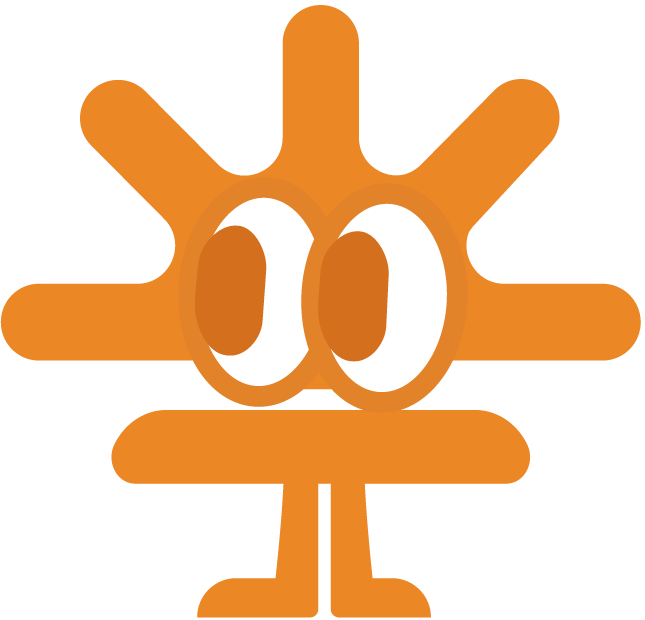
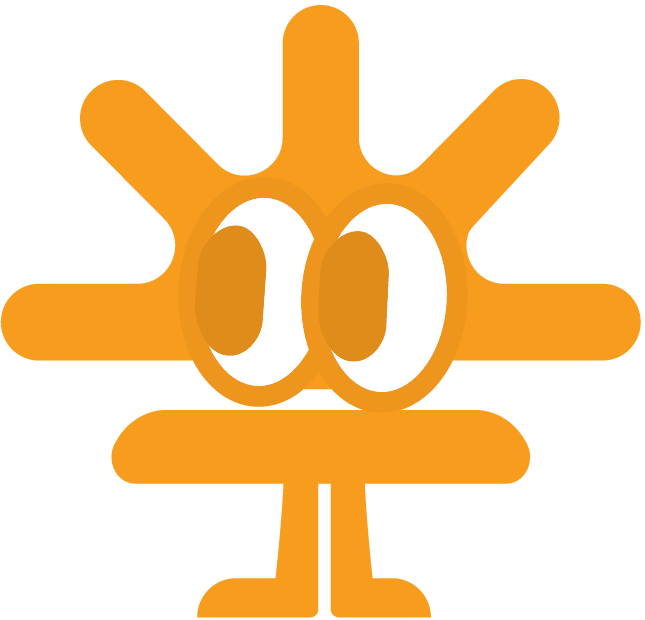
style: 煥新吉祥物溫暖活力偏黃橘色，回歸 Noto Sans TC 多層次字重階層與閱讀順序美感

Changed region(s): [[0.2791, 0.3677, 0.4341, 0.5823], [0.4961, 0.3677, 0.6202, 0.5823]]

diff --git a/style.css b/style.css
@@ -8,8 +8,10 @@
    1. 設計規範變數 (Design Tokens & Theming)
    -------------------------------------------------------------------------- */
 :root {
-  /* 品牌核心色彩 (CIS Primary Colors) */
-  --c-orange: #ec8726;
+  /* 品牌核心色彩 (CIS Primary Colors) - 偏黃橘色溫暖陽光調 */
+  --c-orange: #f89c1e; /* 活力偏黃橘色 (晨曦橘黃) */
+  --c-orange-warm: #f7941d;
+  --c-orange-deep: #d97706; /* 偏深琥珀黃橘，用於文字及高辨識度小標籤 */
   --c-blue: #083b87;
   --c-light-gray: #e5e5e5;
   --c-white: #ffffff;
@@ -28,21 +30,22 @@
   --border-strong: rgba(0, 0, 0, 0.16);
 
   --text-main: #18191f;
-  --text-muted: #5c6270;
+  --text-muted: #525866;
   --text-inverse: #ffffff;
 
-  --accent-primary: #9c4900;
+  --accent-primary: var(--c-orange);
   --accent-secondary: var(--c-blue);
-  --accent-glow: rgba(156, 73, 0, 0.25);
-  --mascot-pupil: #d36f1d;
+  --accent-glow: rgba(248, 156, 30, 0.28);
+  --mascot-color: #f89c1e; /* 靈動吉祥物本體偏黃橘色 */
+  --mascot-pupil: #d46f1d; /* 吉祥物瞳孔琥珀橘 */
 
   --nav-bg: rgba(251, 251, 253, 0.85);
   --card-shadow: 0 10px 30px rgba(8, 59, 135, 0.06), 0 2px 8px rgba(0, 0, 0, 0.04);
-  --card-hover-shadow: 0 20px 40px rgba(184, 93, 16, 0.15), 0 8px 16px rgba(0, 0, 0, 0.06);
+  --card-hover-shadow: 0 20px 40px rgba(248, 156, 30, 0.16), 0 8px 16px rgba(0, 0, 0, 0.06);
 
-  /* 字體系統 (優先以高精度系統原生中文字型無縫瞬時渲染，免去外部字型阻塞) */
-  --font-heading: "Plus Jakarta Sans", system-ui, -apple-system, BlinkMacSystemFont, "Segoe UI", Roboto, "PingFang TC", "Microsoft JhengHei", sans-serif;
-  --font-body: "Plus Jakarta Sans", system-ui, -apple-system, BlinkMacSystemFont, "Segoe UI", Roboto, "PingFang TC", "Microsoft JhengHei", sans-serif;
+  /* 字體系統：幾何現代英數 Plus Jakarta Sans + 繁體中文全字重階層 Noto Sans TC (300/400/500/700/900) */
+  --font-heading: "Plus Jakarta Sans", "Noto Sans TC", "PingFang TC", "Microsoft JhengHei", -apple-system, sans-serif;
+  --font-body: "Plus Jakarta Sans", "Noto Sans TC", "PingFang TC", "Microsoft JhengHei", -apple-system, BlinkMacSystemFont, "Segoe UI", Roboto, sans-serif;
 
   --radius-sm: 8px;
   --radius-md: 16px;
@@ -69,6 +72,7 @@
   --accent-primary: var(--c-purple);
   --accent-secondary: var(--c-green);
   --accent-glow: rgba(102, 0, 255, 0.35);
+  --mascot-color: var(--c-purple);
   --mascot-pupil: #4832a5;
 
   --nav-bg: rgba(21, 22, 27, 0.88);
@@ -291,13 +295,13 @@ section[id],
   align-items: center;
   gap: 10px;
   padding: 6px 16px;
-  background-color: var(--bg-subtle);
-  border: 1px solid var(--border-subtle);
+  background-color: rgba(248, 156, 30, 0.08);
+  border: 1px solid rgba(248, 156, 30, 0.22);
   border-radius: var(--radius-pill);
   font-size: 0.82rem;
   font-weight: 800;
   letter-spacing: 0.1em;
-  color: var(--accent-primary);
+  color: var(--c-orange-deep, #d97706);
   margin-bottom: 24px;
 }
 
@@ -311,18 +315,49 @@ section[id],
 }
 
 @keyframes pulseAnimation {
-  0% { transform: scale(0.95); box-shadow: 0 0 0 0 rgba(236, 135, 38, 0.7); }
-  70% { transform: scale(1); box-shadow: 0 0 0 10px rgba(236, 135, 38, 0); }
-  100% { transform: scale(0.95); box-shadow: 0 0 0 0 rgba(236, 135, 38, 0); }
+  0% { transform: scale(0.95); box-shadow: 0 0 0 0 rgba(248, 156, 30, 0.7); }
+  70% { transform: scale(1); box-shadow: 0 0 0 10px rgba(248, 156, 30, 0); }
+  100% { transform: scale(0.95); box-shadow: 0 0 0 0 rgba(248, 156, 30, 0); }
 }
 
 .hero-title {
   font-family: var(--font-heading);
   font-size: 3.4rem;
-  font-weight: 900;
-  line-height: 1.18;
+  line-height: 1.22;
   margin-bottom: 24px;
   letter-spacing: -0.02em;
+  color: var(--text-main);
+}
+
+/* 透過粗細對比 (Weight Hierarchy) 引導視覺閱讀順序 */
+.hero-title .title-light {
+  font-weight: 300;
+  color: var(--text-muted);
+  opacity: 0.88;
+  letter-spacing: 0.02em;
+}
+
+.hero-title .title-punct {
+  font-weight: 300;
+  color: var(--text-muted);
+  opacity: 0.45;
+}
+
+.hero-title .title-medium {
+  font-weight: 500;
+  color: var(--text-main);
+  letter-spacing: 0.01em;
+}
+
+.hero-title .title-heavy {
+  font-weight: 800;
+  color: var(--text-main);
+  letter-spacing: -0.01em;
+}
+
+.hero-title .title-black {
+  font-weight: 900;
+  letter-spacing: 0.01em;
 }
 
 .hero-title .highlight-spark {
@@ -362,16 +397,22 @@ section[id],
 }
 
 .hero-brand-partner {
-  color: var(--accent-primary);
-  font-weight: 700;
+  color: var(--c-orange-deep, #d97706);
+  font-weight: 600;
   font-size: 1rem;
 }
 
 .hero-desc-text {
   font-size: 1.1rem;
   color: var(--text-muted);
-  line-height: 1.8;
+  line-height: 1.85;
   margin: 0;
+  font-weight: 400;
+}
+
+.hero-desc-text strong {
+  font-weight: 700;
+  color: var(--text-main);
 }
 
 .hero-cta-group {
@@ -513,9 +554,9 @@ section[id],
   font-size: 0.75rem;
   font-weight: 800;
   letter-spacing: 0.08em;
-  color: var(--accent-primary);
-  background: var(--bg-subtle);
-  border: 1px solid var(--border-subtle);
+  color: var(--c-orange-deep, #d97706);
+  background: rgba(248, 156, 30, 0.08);
+  border: 1px solid rgba(248, 156, 30, 0.2);
   padding: 4px 10px;
   border-radius: var(--radius-pill);
 }
@@ -560,12 +601,12 @@ section[id],
 }
 
 .mascot-body-fill {
-  fill: var(--accent-primary);
+  fill: var(--mascot-color, #f89c1e);
   transition: fill var(--transition-normal);
 }
 
 .mascot-pupil {
-  fill: var(--mascot-pupil, #d36f1d);
+  fill: var(--mascot-pupil, #d46f1d);
   transition: fill var(--transition-normal);
 }
 
@@ -582,7 +623,7 @@ section[id],
   display: inline-block;
   font-size: 0.72rem;
   font-weight: 800;
-  color: var(--accent-primary);
+  color: var(--c-orange-deep, #d97706);
   letter-spacing: 0.05em;
   margin-bottom: 4px;
 }

diff --git a/index.html b/index.html
@@ -53,11 +53,7 @@
 
   <link rel="preconnect" href="https://fonts.googleapis.com">
   <link rel="preconnect" href="https://fonts.gstatic.com" crossorigin>
-  <link rel="preload" as="style" href="https://fonts.googleapis.com/css2?family=Plus+Jakarta+Sans:wght@600;700;800&display=swap">
-  <link rel="stylesheet" href="https://fonts.googleapis.com/css2?family=Plus+Jakarta+Sans:wght@600;700;800&display=swap" media="print" onload="this.media='all'">
-  <noscript>
-    <link rel="stylesheet" href="https://fonts.googleapis.com/css2?family=Plus+Jakarta+Sans:wght@600;700;800&display=swap">
-  </noscript>
+  <link href="https://fonts.googleapis.com/css2?family=Noto+Sans+TC:wght@300;400;500;700;900&family=Plus+Jakarta+Sans:wght@400;500;600;700;800;900&display=swap" rel="stylesheet">
   <link rel="stylesheet" href="style.css">
   <!-- 預先載入首屏吉祥物標準圖片 (LCP 最佳化加速) -->
   <link rel="preload" as="image" href="mascot-lcp.png" fetchpriority="high">
@@ -112,9 +108,9 @@
             <span class="badge-text">ENGINEERING ✕ MARKETING ✕ MANUFACTURING</span>
           </div>
           <h1 class="hero-title">
-            用工程思維，<br>
-            拆解傳統製造的<br>
-            <span class="accent-text">出海拓銷脈絡</span>
+            <span class="title-light">用</span><span class="title-heavy">工程思維</span><span class="title-punct">，</span><br>
+            <span class="title-medium">拆解</span><span class="title-heavy">傳統製造</span><span class="title-light">的</span><br>
+            <span class="accent-text title-black">出海拓銷脈絡</span>
           </h1>
           <div class="hero-desc">
             <div class="hero-brand-line">
@@ -123,7 +119,7 @@
               <span class="hero-brand-partner">二代・傳產・製造・數位夥伴</span>
             </div>
             <p class="hero-desc-text">
-              我們拒絕空泛的行銷話術。結合機械理工邏輯、北美亞馬遜跨境電商與深度影像陪跑，直面工廠現場，為台灣精密製造注入拓銷新活水。
+              我們拒絕空泛的行銷話術。結合<strong>機械理工邏輯</strong>、<strong>北美亞馬遜跨境電商</strong>與<strong>深度影像陪跑</strong>，直面工廠現場，為台灣精密製造注入拓銷新活水。
             </p>
           </div>
           <div class="hero-cta-group">

diff --git a/records/amazon-algorithm-log.html b/records/amazon-algorithm-log.html
@@ -48,11 +48,7 @@
 
   <link rel="preconnect" href="https://fonts.googleapis.com">
   <link rel="preconnect" href="https://fonts.gstatic.com" crossorigin>
-  <link rel="preload" as="style" href="https://fonts.googleapis.com/css2?family=Plus+Jakarta+Sans:wght@600;700;800&display=swap">
-  <link rel="stylesheet" href="https://fonts.googleapis.com/css2?family=Plus+Jakarta+Sans:wght@600;700;800&display=swap" media="print" onload="this.media='all'">
-  <noscript>
-    <link rel="stylesheet" href="https://fonts.googleapis.com/css2?family=Plus+Jakarta+Sans:wght@600;700;800&display=swap">
-  </noscript>
+  <link href="https://fonts.googleapis.com/css2?family=Noto+Sans+TC:wght@300;400;500;700;900&family=Plus+Jakarta+Sans:wght@400;500;600;700;800;900&display=swap" rel="stylesheet">
   <link rel="stylesheet" href="../style.css">
 </head>
 <body class="article-page">

diff --git a/records/car-window-deflector.html b/records/car-window-deflector.html
@@ -50,11 +50,7 @@
 
   <link rel="preconnect" href="https://fonts.googleapis.com">
   <link rel="preconnect" href="https://fonts.gstatic.com" crossorigin>
-  <link rel="preload" as="style" href="https://fonts.googleapis.com/css2?family=Plus+Jakarta+Sans:wght@600;700;800&display=swap">
-  <link rel="stylesheet" href="https://fonts.googleapis.com/css2?family=Plus+Jakarta+Sans:wght@600;700;800&display=swap" media="print" onload="this.media='all'">
-  <noscript>
-    <link rel="stylesheet" href="https://fonts.googleapis.com/css2?family=Plus+Jakarta+Sans:wght@600;700;800&display=swap">
-  </noscript>
+  <link href="https://fonts.googleapis.com/css2?family=Noto+Sans+TC:wght@300;400;500;700;900&family=Plus+Jakarta+Sans:wght@400;500;600;700;800;900&display=swap" rel="stylesheet">
   <link rel="stylesheet" href="../style.css">
 </head>
 <body class="article-page">

diff --git a/records/game-theory-memory.html b/records/game-theory-memory.html
@@ -48,11 +48,7 @@
 
   <link rel="preconnect" href="https://fonts.googleapis.com">
   <link rel="preconnect" href="https://fonts.gstatic.com" crossorigin>
-  <link rel="preload" as="style" href="https://fonts.googleapis.com/css2?family=Plus+Jakarta+Sans:wght@600;700;800&display=swap">
-  <link rel="stylesheet" href="https://fonts.googleapis.com/css2?family=Plus+Jakarta+Sans:wght@600;700;800&display=swap" media="print" onload="this.media='all'">
-  <noscript>
-    <link rel="stylesheet" href="https://fonts.googleapis.com/css2?family=Plus+Jakarta+Sans:wght@600;700;800&display=swap">
-  </noscript>
+  <link href="https://fonts.googleapis.com/css2?family=Noto+Sans+TC:wght@300;400;500;700;900&family=Plus+Jakarta+Sans:wght@400;500;600;700;800;900&display=swap" rel="stylesheet">
   <link rel="stylesheet" href="../style.css">
 </head>
 <body class="article-page">
